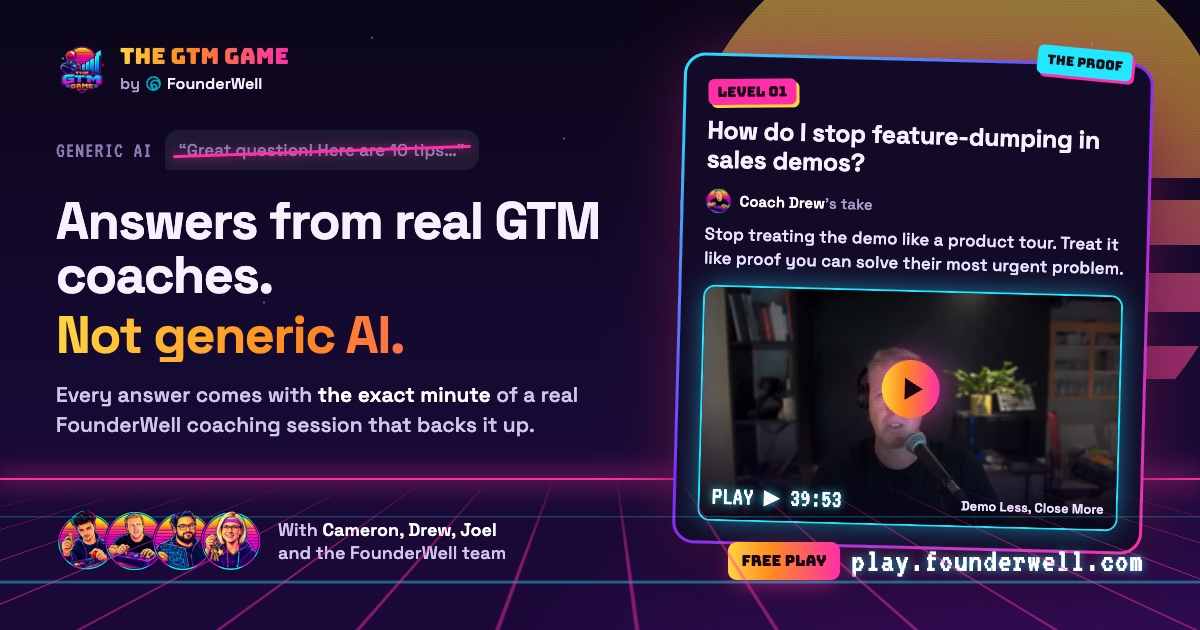
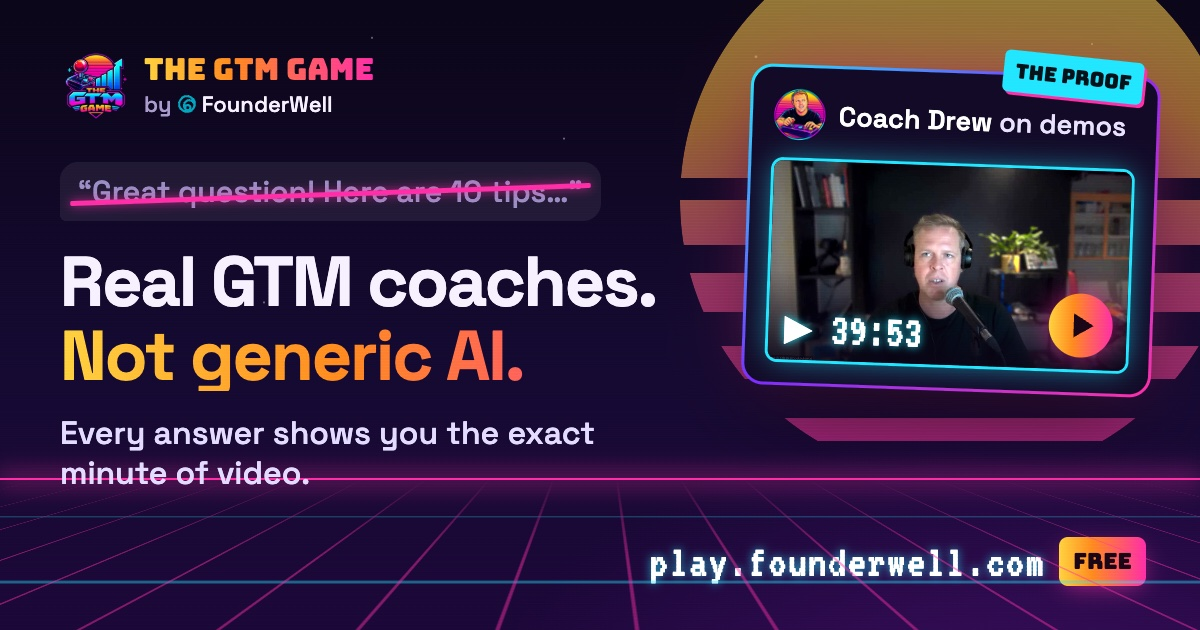
feat(gtmgym): share card readable at timeline size
Bigger type, fewer elements, bottom-left left clear for X's domain
overlay.

diff --git a/design/gtm-gym/og/home-card.html b/design/gtm-gym/og/home-card.html
@@ -87,6 +87,39 @@
   .url .free { font-family: Bungee; font-size: 15px; color: #1a0616; padding: 9px 13px; border-radius: 9px;
     background: linear-gradient(90deg,#ffd23f,#ff8a1f 38%,#ff2ea6); box-shadow: 0 6px 24px -6px rgba(255,46,166,.7); }
   .url .host { font-family: VT323; font-size: 34px; color: #fff; letter-spacing: .03em; text-shadow: 0 0 10px rgba(34,230,255,.7); }
+
+  /* v2: readable at timeline size (≈1/3 scale): nothing under ~30px */
+  .left { left: 60px; top: 50px; width: 640px; }
+  .brand img { width: 72px; height: 72px; }
+  .brand .name { font-size: 30px; }
+  .brand .by { font-size: 22px; margin-top: 6px; }
+  .generic { margin-top: 40px; }
+  .generic .said { font-size: 30px; padding: 10px 18px; border-radius: 18px 18px 18px 6px; color: #9a8cc4; }
+  .generic .said::after { height: 5px; left: 10px; right: 10px; }
+  h1 { margin-top: 26px; font-size: 76px; line-height: 1.0; letter-spacing: -.03em; }
+  h1 .hot { margin-top: 4px; }
+  .sub { margin-top: 22px; font-size: 32px; line-height: 1.25; color: #e3dbff; max-width: 600px; }
+  .shot { right: 50px; top: 70px; width: 440px; transform: rotate(2deg); }
+  .shot .in { padding: 20px; }
+  .take-by { margin-top: 0; font-size: 30px; gap: 12px; color: #e9e2ff; }
+  .take-by img { width: 54px; height: 54px; }
+  .clip { margin-top: 16px; border-width: 3px; }
+  .clip .play { width: 84px; height: 84px; }
+  .clip .play::after { border-left-width: 26px; border-top-width: 16px; border-bottom-width: 16px; margin-left: 8px; }
+  .clip .tc { font-size: 46px; }
+  .clip .meta { left: 16px; bottom: 6px; }
+  .proof { font-size: 20px; padding: 8px 12px; top: -18px; right: 18px; }
+  .url { right: 54px; bottom: 44px; gap: 14px; }
+  .url .host { font-size: 46px; }
+  .url .free { font-size: 22px; padding: 10px 14px; }
+  .left { width: 700px; }
+  h1 { font-size: 70px; white-space: nowrap; }
+  .shot { width: 410px; right: 44px; }
+  .clip img { filter: brightness(1.35) contrast(1.05); object-position: 40% 30%; }
+  .clip .play { left: auto; right: 14px; top: auto; bottom: 12px; transform: none; width: 64px; height: 64px; }
+  .clip .play::after { border-left-width: 20px; border-top-width: 12px; border-bottom-width: 12px; margin-left: 6px; }
+  .clip .shade { background: linear-gradient(180deg, transparent 55%, rgba(11,6,24,.85)); }
+  .take-by { font-size: 27px; white-space: nowrap; }
 </style>
 </head>
 <body>
@@ -101,44 +134,28 @@
       <img src="/public/gym/game/logo.webp" alt="">
       <div>
         <div class="name">THE GTM GAME</div>
-        <div class="by">by <img src="/public/gym/founderwell-mark-teal.svg" style="width:15px;height:15px"> <span style="color:#f6f0ff">FounderWell</span></div>
+        <div class="by">by <img src="/public/gym/founderwell-mark-teal.svg" style="width:18px;height:18px"> <span style="color:#f6f0ff">FounderWell</span></div>
       </div>
     </div>
-    <div class="generic">
-      <span class="label">GENERIC AI</span>
-      <span class="said">&ldquo;Great question! Here are 10 tips&hellip;&rdquo;</span>
-    </div>
-    <h1>Answers from real GTM coaches.<span class="hot">Not generic AI.</span></h1>
-    <p class="sub">Every answer comes with <b>the exact minute</b> of a real FounderWell coaching session that backs it up.</p>
-  </div>
-
-  <div class="coaches">
-    <div class="faces">
-      <img src="/public/gym/game/cast/cameron.webp" alt="">
-      <img src="/public/gym/game/cast/drew.webp" alt="">
-      <img src="/public/gym/game/cast/joel.webp" alt="">
-      <img src="/public/gym/game/cast/vanessa.webp" alt="">
-    </div>
-    <div class="who">With <b>Cameron, Drew, Joel</b><br>and the FounderWell team</div>
+    <div class="generic"><span class="said">&ldquo;Great question! Here are 10 tips&hellip;&rdquo;</span></div>
+    <h1>Real GTM coaches.<span class="hot">Not generic AI.</span></h1>
+    <p class="sub">Every answer shows you the exact minute of video.</p>
   </div>
 
   <div class="shot">
     <div class="in">
-      <span class="stamp">LEVEL 01</span>
-      <div class="q">How do I stop feature-dumping in sales demos?</div>
-      <div class="take-by"><img src="/public/gym/game/cast/drew.webp" alt=""> <span><b>Coach Drew</b>&rsquo;s take</span></div>
-      <div class="take">Stop treating the demo like a product tour. Treat it like proof you can solve their most urgent problem.</div>
+      <div class="take-by"><img src="/public/gym/game/cast/drew.webp" alt=""> <span><b>Coach Drew</b> on demos</span></div>
       <div class="clip">
         <img src="https://image.mux.com/XJ3iy22C2hEQPTAQVMFQT02He01lHEcXVZ/thumbnail.jpg?time=2393&width=900" alt="">
         <div class="shade"></div>
         <div class="play"></div>
-        <div class="meta"><span class="tc">PLAY ▶ 39:53</span><span class="title">Demo Less, Close More</span></div>
+        <div class="meta"><span class="tc">▶ 39:53</span></div>
       </div>
     </div>
     <span class="proof">THE PROOF</span>
   </div>
 
-  <div class="url"><span class="free">FREE PLAY</span><span class="host">play.founderwell.com</span></div>
+  <div class="url"><span class="host">play.founderwell.com</span><span class="free">FREE</span></div>
 </div>
 <div class="scan" style="position:fixed"></div>
 </body>

diff --git a/lib/gym-meta.ts b/lib/gym-meta.ts
@@ -16,7 +16,7 @@ export const GYM_DEFAULT_TITLE = "The GTM Game — by FounderWell";
 export const GYM_DEFAULT_DESCRIPTION =
   "Answers from real GTM coaches, not generic AI. Ask anything about going to market — positioning, outbound, demos, pricing — and get a game plan with the exact minute of a FounderWell coaching session that backs it up. Free.";
 // Bump ?v= when the card changes; crawlers cache by URL
-export const GYM_HOME_IMAGE = "/gym/og-home.jpg?v=5";
+export const GYM_HOME_IMAGE = "/gym/og-home.jpg?v=6";
 
 interface GymMetaInput {
   /** Page title (the layout template appends " · The GTM Game") */
@@ -37,7 +37,7 @@ export function gymMeta({
   description = GYM_DEFAULT_DESCRIPTION,
   path,
   image = GYM_HOME_IMAGE,
-  imageAlt = "The GTM Game by FounderWell: answers from real GTM coaches, not generic AI, with the exact minute of video that backs them up.",
+  imageAlt = "The GTM Game by FounderWell: real GTM coaches, not generic AI. Every answer shows you the exact minute of video.",
   type = "website",
 }: GymMetaInput = {}): Metadata {
   const ogTitle = shareTitle || title || GYM_DEFAULT_TITLE;
